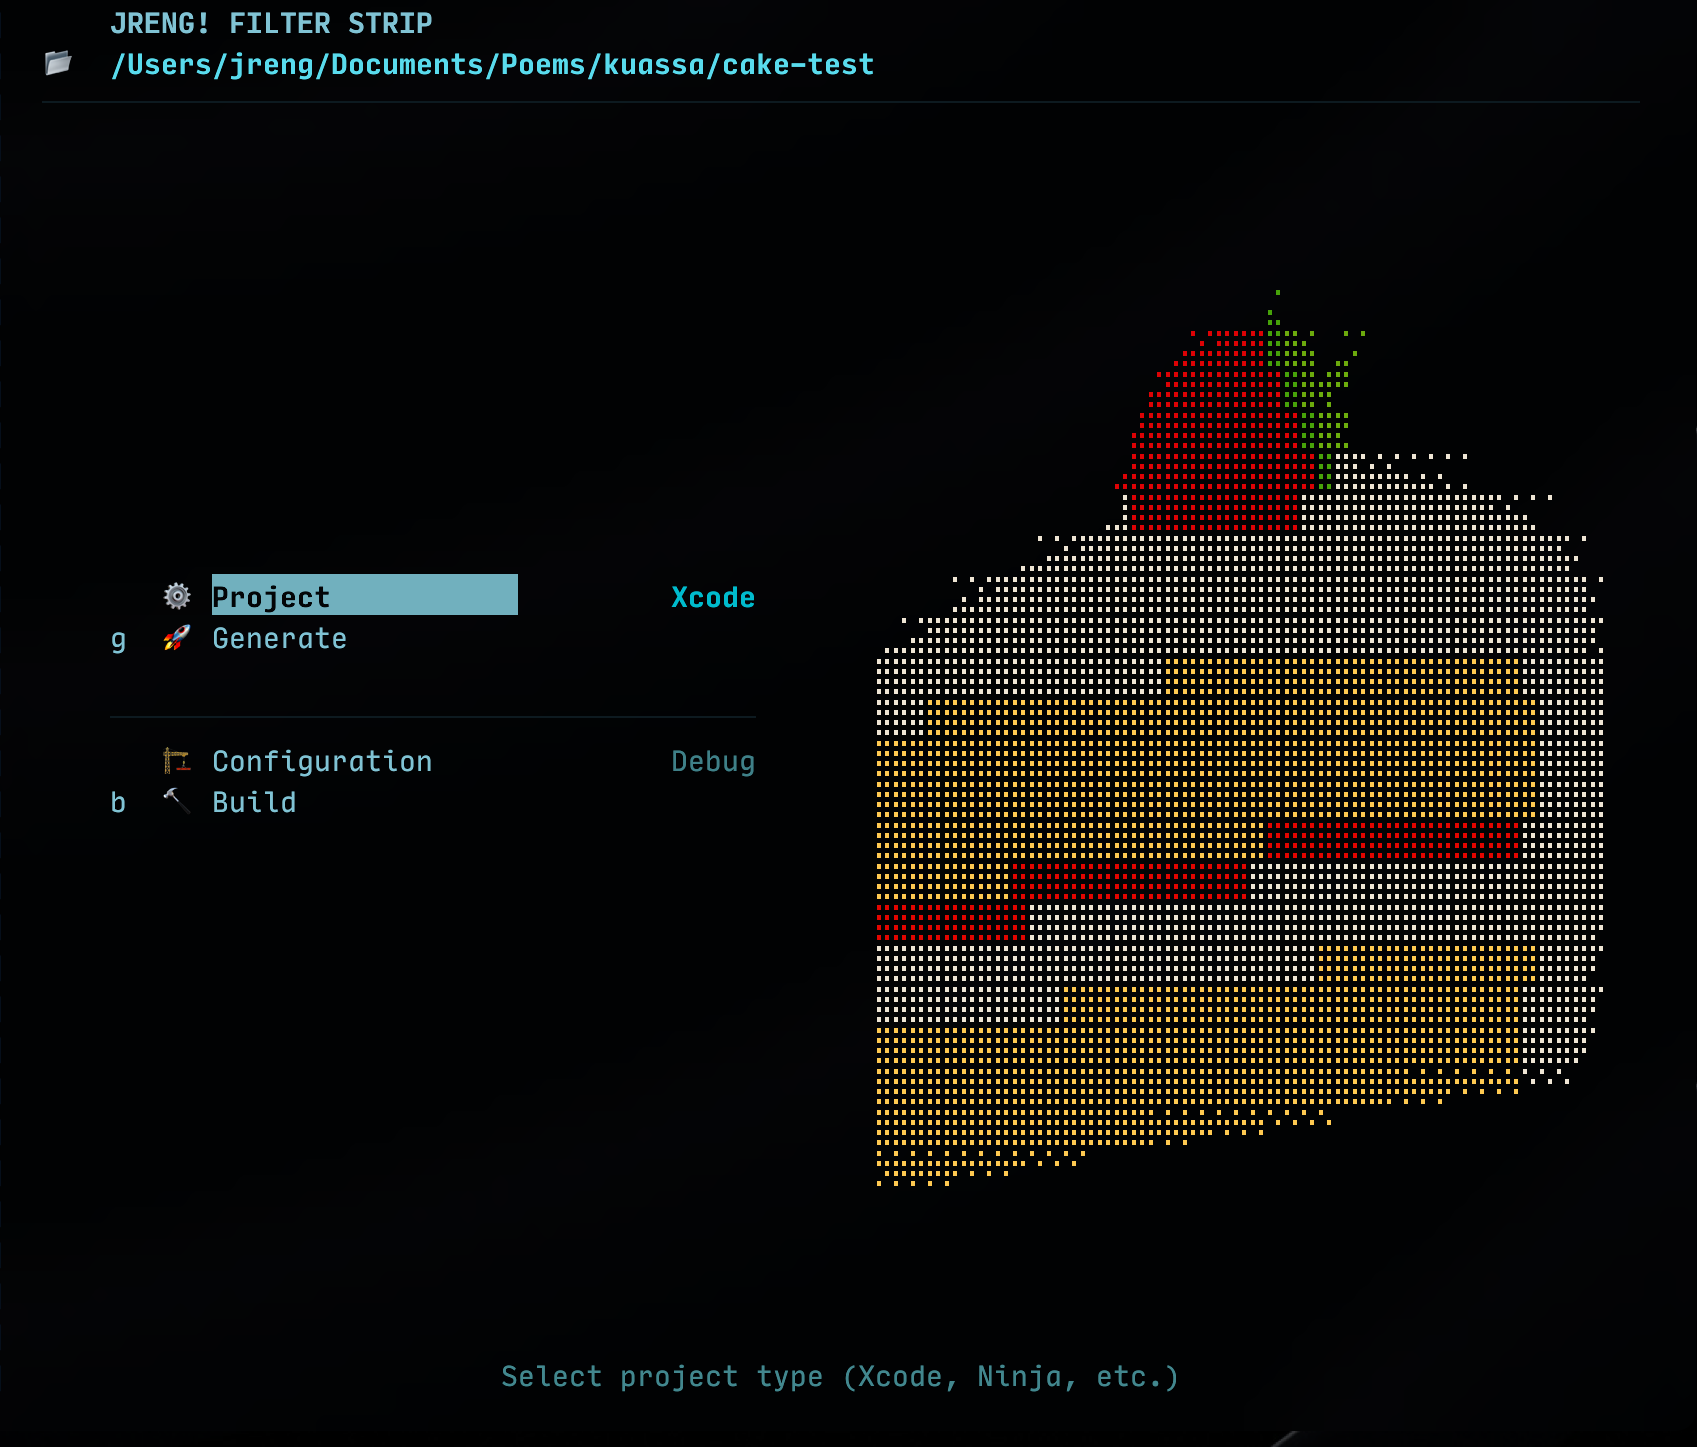
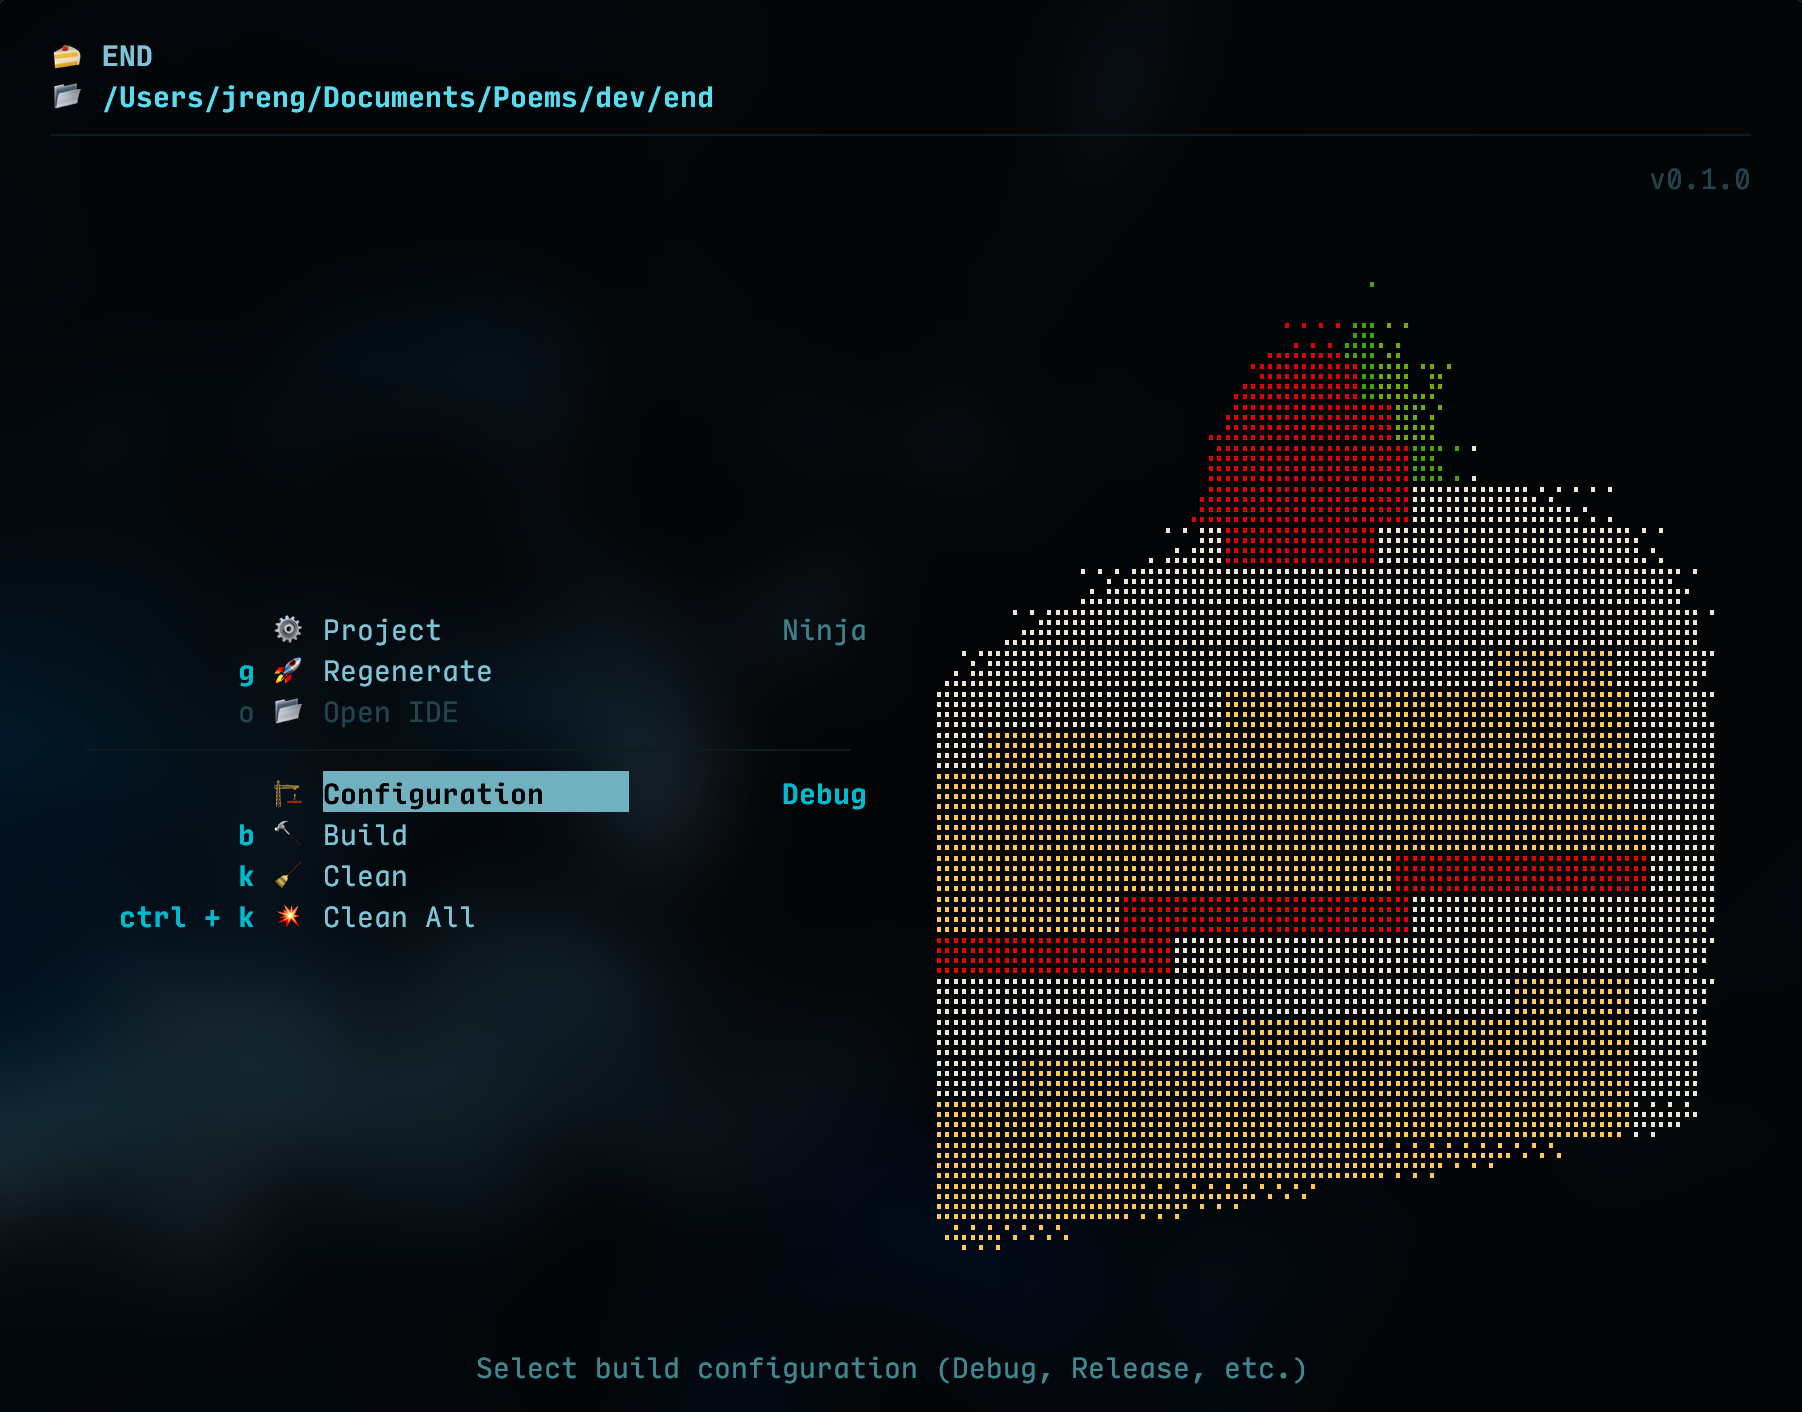
add better screenshot

diff --git a/internal/ui/cake_lie.go b/internal/ui/cake_lie.go
@@ -1,106 +1,49 @@
 package ui
 
 import (
+	"cake/internal/banner"
+	"embed"
 	"strings"
 
 	"github.com/charmbracelet/lipgloss"
 )
 
-// CakeLieBanner renders the "The cake is a lie" banner with braille art
+//go:embed assets/cake-lie.svg
+var cakeLieFS embed.FS
+
+// RenderCakeLieBanner renders the "The cake is a lie" banner with braille art from SVG
 // Used when cake is launched outside a CMake project
-func RenderCakeLieBanner(width int, height int, theme Theme) string {
-	// Try to load and convert the SVG to braille
-	brailleArt := loadCakeLieBraille(width, height)
-
-	// Style the braille art
-	artStyle := lipgloss.NewStyle().
-		Foreground(lipgloss.Color(theme.DimmedTextColor))
-
-	styledArt := artStyle.Render(brailleArt)
-
-	// Center vertically and horizontally
-	artLines := strings.Split(styledArt, "\n")
-	artHeight := len(artLines)
-
-	// Calculate vertical padding
-	topPad := (height - artHeight) / 2
-	if topPad < 0 {
-		topPad = 0
-	}
-	bottomPad := height - artHeight - topPad
-	if bottomPad < 0 {
-		bottomPad = 0
+func RenderCakeLieBanner(width, height int) string {
+	logoData, err := cakeLieFS.ReadFile("assets/cake-lie.svg")
+	if err != nil {
+		return strings.Repeat(" ", width) + "\n" +
+			strings.Repeat(" ", width) + "\n" +
+			strings.Repeat(" ", width)
 	}
 
-	var result strings.Builder
+	svgString := string(logoData)
 
-	// Top padding
-	for i := 0; i < topPad; i++ {
-		result.WriteString(strings.Repeat(" ", width))
-		if i < topPad-1 || artHeight > 0 {
-			result.WriteString("\n")
+	canvasWidth := width * 2
+	canvasHeight := height * 4
+
+	brailleArray := banner.SvgToBrailleArray(svgString, canvasWidth, canvasHeight)
+
+	var output strings.Builder
+
+	for i, row := range brailleArray {
+		for _, bc := range row {
+			hex := banner.RGBToHex(bc.Color.R, bc.Color.G, bc.Color.B)
+			styledChar := lipgloss.NewStyle().
+				Foreground(lipgloss.Color(hex)).
+				Render(string(bc.Char))
+			output.WriteString(styledChar)
+		}
+		if i < len(brailleArray)-1 {
+			output.WriteString("\n")
 		}
 	}
 
-	// Art lines (centered horizontally)
-	for i, line := range artLines {
-		lineWidth := lipgloss.Width(line)
-		leftPad := (width - lineWidth) / 2
-		if leftPad < 0 {
-			leftPad = 0
-		}
-		centeredLine := strings.Repeat(" ", leftPad) + line
-		// Pad to full width
-		finalWidth := lipgloss.Width(centeredLine)
-		if finalWidth < width {
-			centeredLine = centeredLine + strings.Repeat(" ", width-finalWidth)
-		}
-		result.WriteString(centeredLine)
-		if i < len(artLines)-1 || bottomPad > 0 {
-			result.WriteString("\n")
-		}
-	}
-
-	// Bottom padding
-	for i := 0; i < bottomPad; i++ {
-		result.WriteString(strings.Repeat(" ", width))
-		if i < bottomPad-1 {
-			result.WriteString("\n")
-		}
-	}
-
-	return result.String()
-}
-
-// loadCakeLieBraille loads or generates braille art for the cake
-// Falls back to a simple braille representation if SVG conversion fails
-func loadCakeLieBraille(width int, height int) string {
-	// Simple braille representation of a cake/lie
-	// Using Unicode braille patterns (U+2800-U+28FF)
-	// This is a stylized cake using braille dots
-
-	cakeArt := `
-                                             
-                                             
-                                             
-              ⣀⣀⣀⣀⣀⣀⣀⣀⣀⣀⣀⣀                  
-           ⢀⣠⣾⣿⣿⣿⣿⣿⣿⣿⣿⣿⣿⣿⣿⣿⣦⣄               
-         ⢀⣴⣿⣿⣿⣿⣿⣿⣿⣿⣿⣿⣿⣿⣿⣿⣿⣿⣿⣿⣧⡀             
-        ⣰⣿⣿⣿⣿⣿⣿⣿⣿⣿⣿⣿⣿⣿⣿⣿⣿⣿⣿⣿⣿⣿⣆             
-       ⣸⣿⣿⣿⣿⣿⣿⣿⣿⣿⣿⣿⣿⣿⣿⣿⣿⣿⣿⣿⣿⣿⣿⣇            
-      ⢠⣿⣿⣿⣿⣿⣿⣿⣿⣿⣿⣿⣿⣿⣿⣿⣿⣿⣿⣿⣿⣿⣿⣿⣿⡄           
-      ⣾⣿⣿⣿⣿⣿⣿⣿⣿⣿⣿⣿⣿⣿⣿⣿⣿⣿⣿⣿⣿⣿⣿⣿⣷           
-     ⣸⣿⣿⣿⣿⣿⣿⣿⣿⣿⣿⣿⣿⣿⣿⣿⣿⣿⣿⣿⣿⣿⣿⣿⣿⣇          
-    ⢀⣿⣿⣿⣿⣿⣿⣿⣿⣿⣿⣿⣿⣿⣿⣿⣿⣿⣿⣿⣿⣿⣿⣿⣿⣿⣿⡀         
-    ⢸⣿⣿⣿⣿⣿⣿⣿⣿⣿⣿⣿⣿⣿⣿⣿⣿⣿⣿⣿⣿⣿⣿⣿⣿⣿⣿⡇         
-    ⠘⣿⣿⣿⣿⣿⣿⣿⣿⣿⣿⣿⣿⣿⣿⣿⣿⣿⣿⣿⣿⣿⣿⣿⣿⣿⣿⠃         
-     ⠹⣿⣿⣿⣿⣿⣿⣿⣿⣿⣿⣿⣿⣿⣿⣿⣿⣿⣿⣿⣿⣿⣿⣿⣿⠏          
-      ⠙⢿⣿⣿⣿⣿⣿⣿⣿⣿⣿⣿⣿⣿⣿⣿⣿⣿⣿⣿⣿⣿⣿⡿⠋           
-        ⠉⠛⠿⢿⣿⣿⣿⣿⣿⣿⣿⣿⣿⣿⣿⣿⣿⡿⠿⠛⠉              
-             ⠉⠉⠉⠉⠉⠉⠉⠉⠉⠉⠉⠉                     
-`
-
-	return strings.TrimSpace(cakeArt)
+	return output.String()
 }
 
 // RenderInvalidProjectFooter renders the footer for invalid project mode

diff --git a/internal/app/app.go b/internal/app/app.go
@@ -329,7 +329,7 @@ func (a *Application) View() string {
 	switch a.mode {
 	case ModeInvalidProject:
 		// Not a CMake project - show "cake is a lie" banner centered
-		contentText = ui.RenderCakeLieBanner(a.sizing.ContentInnerWidth, a.sizing.ContentHeight, a.theme)
+		contentText = ui.RenderCakeLieBanner(a.sizing.ContentInnerWidth, a.sizing.ContentHeight)
 		// Footer is handled by GetFooterContent() which checks quitConfirmActive
 		// No need to override footerText here
 	case ModeMenu:
